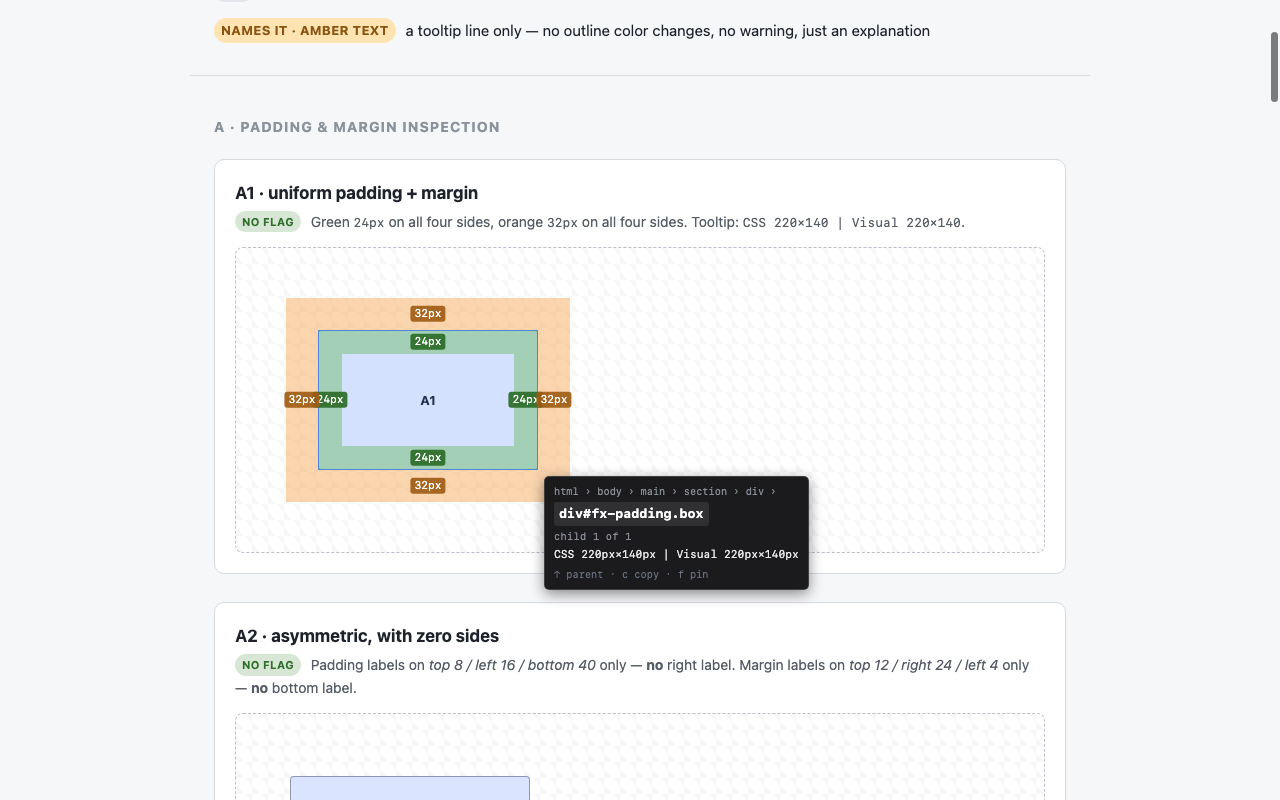
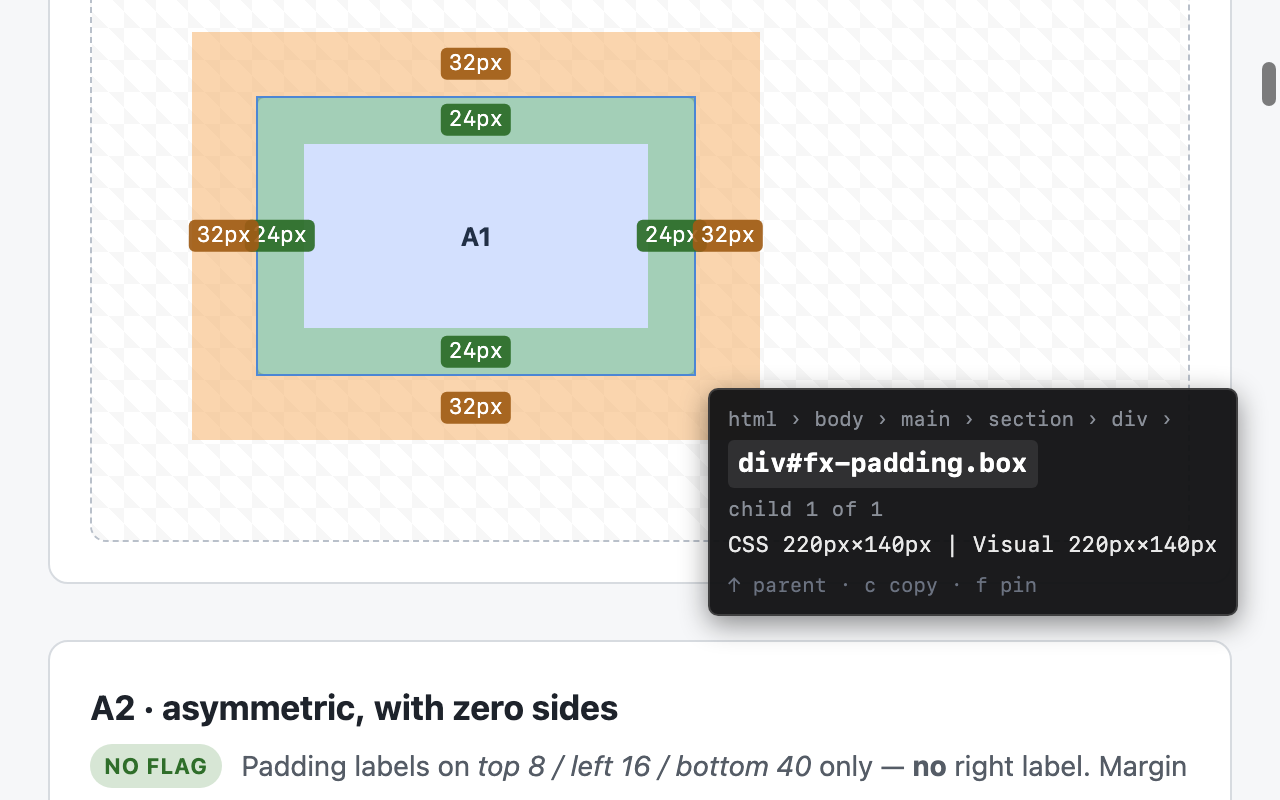
Capture Store screenshots at 2x
The Store only takes 1280x800, and a 1:1 desktop frame left the tooltip
at 11px, unreadable in the listing. Lay the page out at 640x400 and
capture at 2x via the screenshot clip's scale. A deviceScaleFactor of 2
made headless Chrome return the stale post-scroll frame, showing the
overlay on the fixture's container. Fixtures now sit near the top of the
frame so the tooltip hangs below them instead of covering them.

diff --git a/CLAUDE.md b/CLAUDE.md
@@ -271,10 +271,14 @@ node test/screenshots.mjs
 ```
 
 Same harness as the smoke test (`test/harness.mjs`: Chrome up, extension
-loaded, testbed served, inspector on), a 1280×800 emulated viewport, and a
-forced light scheme so the host machine's theme doesn't decide what the listing
-looks like. Writes five PNGs to `assets/screenshots/` — a publishing artifact,
-not part of the extension package.
+loaded, testbed served, inspector on), a 640×400 emulated viewport captured
+at 2× (the Store only takes 1280×800, and a 1:1 desktop frame left the tooltip
+at an unreadable 11px), and a forced light scheme so the host machine's theme
+doesn't decide what the listing looks like. The 2× lives in the capture's
+`clip.scale`, not in `deviceScaleFactor`: with a device pixel ratio of 2,
+headless Chrome returned stale frames (see the comment in `capture()`).
+Writes five PNGs to `assets/screenshots/` — a publishing artifact, not part of
+the extension package.
 
 Unlike the smoke test, this hovers via `Input.dispatchMouseEvent`, so it goes
 through real hit-testing: the cursor lands just inside a fixture's bottom-right
